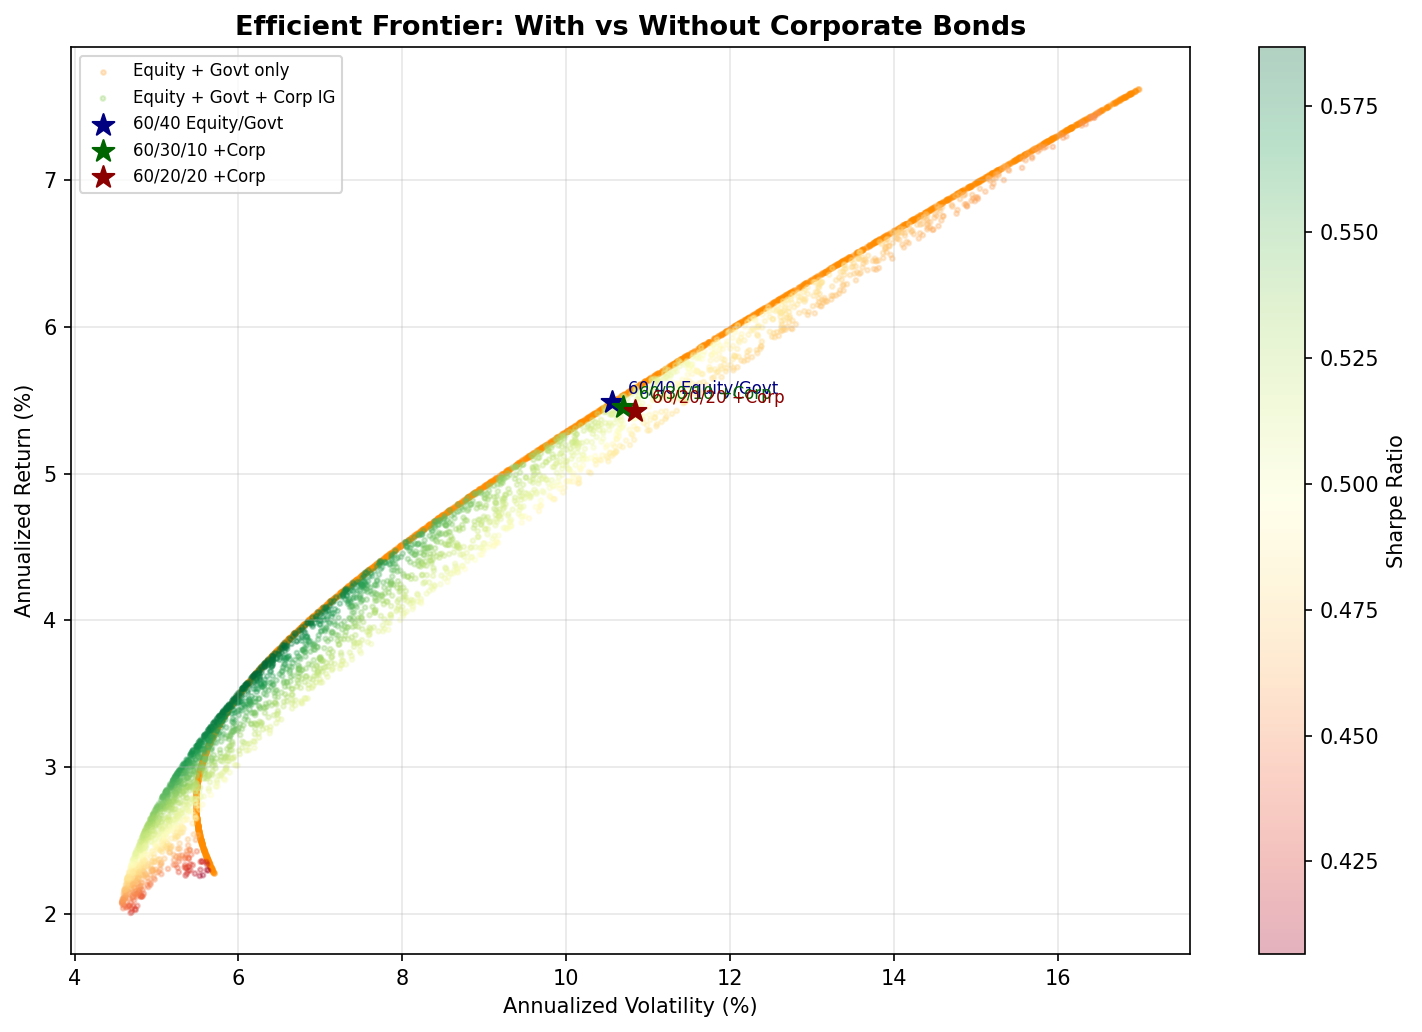
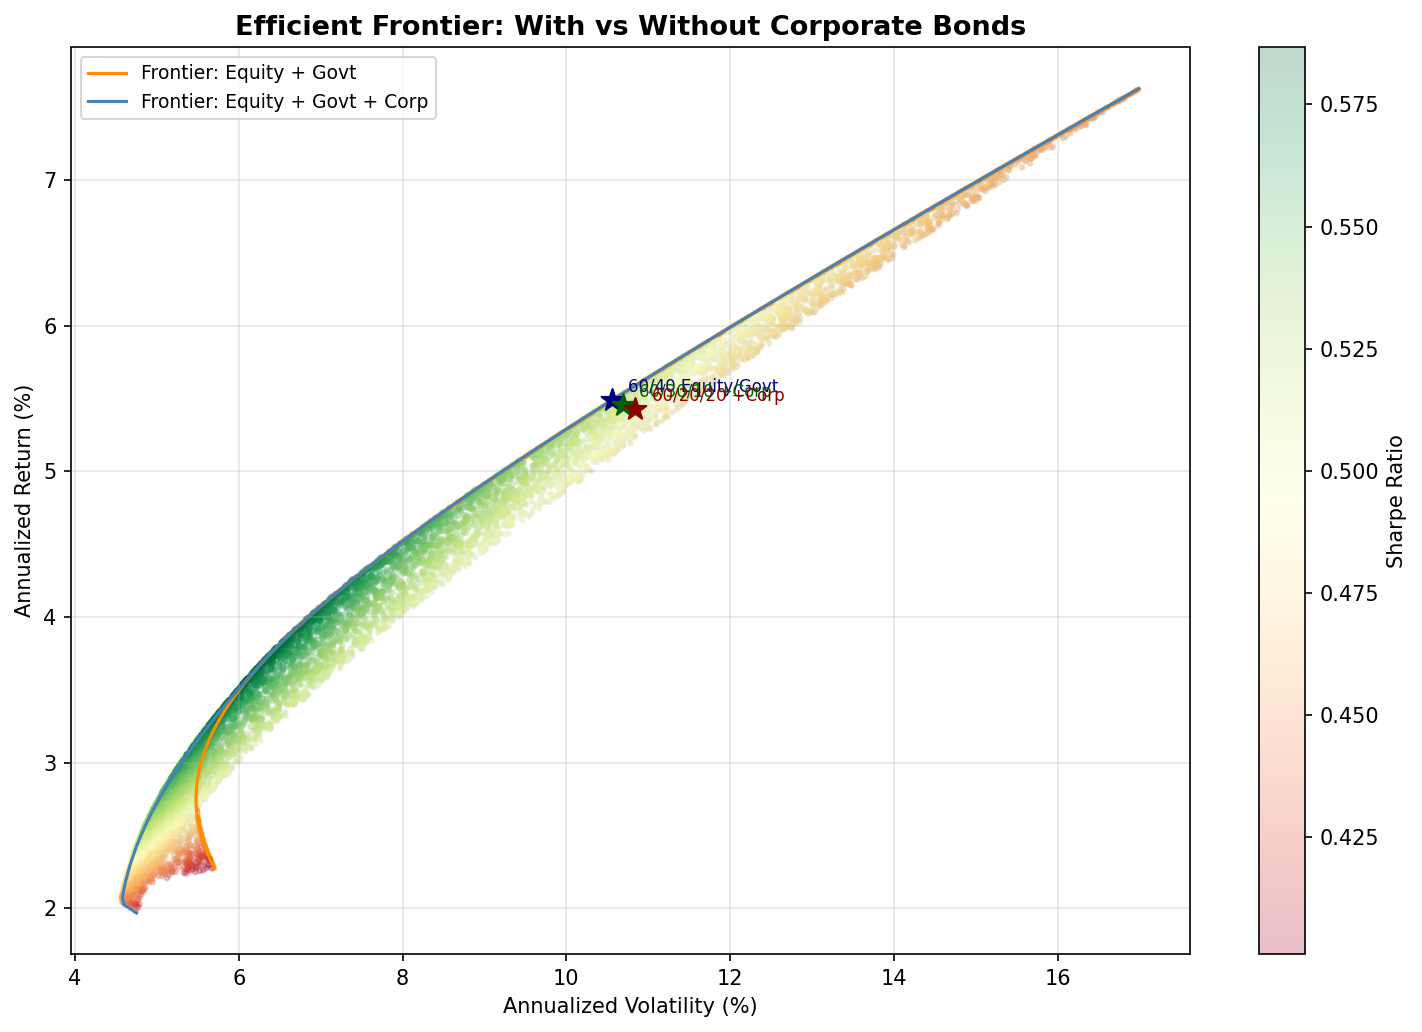
updated montecarlo result visual and added cal calculation and exact frontier lines

diff --git a/src/Q5_equity_bond_portfolio.py b/src/Q5_equity_bond_portfolio.py
@@ -1,34 +1,5 @@
-#DOSENT WORKKK!
 
-
-#1. Do corporate bonds add value to a bond portfolio? — pure fixed income context
-#2. Do corporate bonds add value to a diversified bond+equity portfolio? — broader context
-#3. What is the systematic risk in corporate bonds? — factor decomposition
-
-
-# src/Q5_equity_bond_portfolio.py
-# ─────────────────────────────────────────────────────────────
-# Q5: Do corporate bonds add value to a bond or diversified portfolio?
-#     What is the systematic risk in corporate bonds?
-#
-# INPUTS:  data/processed/etf_returns.parquet   (govt, corp log returns)
-#          data/processed/msci_europe.parquet    (equity log returns)
-#
-# OUTPUTS: Q5_bond_portfolio_cumulative.png      — Part 1: bond-only portfolios
-#          Q5_diversified_cumulative.png          — Part 2: bond+equity portfolios
-#          Q5_correlation_heatmap.png             — asset correlation matrix
-#          Q5_efficient_frontier.png              — frontier with/without corp
-#          Q5_summary_table.png                   — stats for all portfolios
-#          Q5_systematic_risk_regression.png      — factor regression table
-#          Q5_rolling_equity_beta.png             — rolling beta to equity
-#          Q5_drawdown_all.png                    — drawdown all portfolios
-#
-# NOTE ON DATA:
-#   Equity = MSCI World from data/processed/msci_world.parquet (2000-2025)
-#   Bonds  = ETF data from etf_returns.parquet (from ~2003)
-#   Common sample starts at the latest first-valid date across all series.
-# ─────────────────────────────────────────────────────────────
-
+from scipy.optimize import minimize
 import pandas as pd
 import numpy as np
 import matplotlib.pyplot as plt
@@ -37,6 +8,7 @@ import seaborn as sns
 import statsmodels.api as sm
 from src.config import SUBPERIODS, COLORS
 from src.data_loader import load_etf_returns, load_msci_europe
+from scipy.signal import savgol_filter
 
 
 # ══════════════════════════════════════════════════════════════
@@ -259,7 +231,7 @@ def compute_rolling_equity_beta(returns: pd.DataFrame,
 
 def compute_frontier_points(returns: pd.DataFrame,
                              include_corp: bool = True,
-                             n_portfolios: int = 3000) -> tuple:
+                             n_portfolios: int = 7000) -> tuple:
     """
     Monte Carlo simulation of random portfolio weights to approximate
     the efficient frontier.
@@ -384,56 +356,157 @@ def plot_correlation_heatmap(returns: pd.DataFrame) -> plt.Figure:
     fig.tight_layout()
     return fig
 
+def extract_frontier(vols: np.ndarray, rets: np.ndarray) -> tuple:
+    """
+    Extract efficient frontier (upper envelope):
+    For each volatility level, keep the max return.
+    """
+    df = pd.DataFrame({"vol": vols, "ret": rets})
+    df = df.sort_values("vol")
+
+    # Keep only points that improve return
+    frontier = []
+    max_ret = -np.inf
+
+    for _, row in df.iterrows():
+        if row["ret"] > max_ret:
+            frontier.append(row)
+            max_ret = row["ret"]
+
+    frontier = pd.DataFrame(frontier)
+    return frontier["vol"].values, frontier["ret"].values
+
+from scipy.optimize import minimize
+
+def compute_exact_frontier(returns, include_corp=True, n_points=100):
+
+    if include_corp:
+        assets = ["equity", "govt_mid", "corp_ig"]
+    else:
+        assets = ["equity", "govt_mid"]
+
+    r = returns[assets].dropna()
+    mu = r.mean() * 12
+    Sigma = r.cov() * 12
+
+    n = len(mu)
+
+    def portfolio_vol(w):
+        return np.sqrt(w @ Sigma @ w)
+
+    def portfolio_ret(w):
+        return w @ mu
+
+    bounds = [(0, 1)] * n
+    constraints_base = [{'type': 'eq', 'fun': lambda w: np.sum(w) - 1}]
+
+    target_returns = np.linspace(mu.min(), mu.max(), n_points)
+
+    vols, rets = [], []
+
+    # ✅ initialize once
+    prev_w = np.ones(n) / n
+
+    for target in target_returns:
+
+        constraints = constraints_base + [
+            {'type': 'eq', 'fun': lambda w, target=target: portfolio_ret(w) - target}
+        ]
+
+        res = minimize(
+            portfolio_vol,
+            prev_w,  # ✅ warm start
+            bounds=bounds,
+            constraints=constraints
+        )
+
+        if res.success:
+            w_opt = res.x
+
+            vols.append(portfolio_vol(w_opt) * 100)
+            rets.append(portfolio_ret(w_opt) * 100)
+
+            # ✅ update for next iteration
+            prev_w = w_opt
+
+        else:
+            # fallback (optional but robust)
+            prev_w = np.ones(n) / n
+
+    return np.array(vols), np.array(rets)
+
 
 def plot_efficient_frontier(returns: pd.DataFrame) -> plt.Figure:
-    """
-    Exhibit 4: Efficient frontier — with vs without corporate bonds.
-    If the frontier shifts outward (higher return per unit of risk) when
-    corp is added, corporate bonds genuinely add diversification value.
-
-    Monte Carlo: 3000 random weight combinations per universe.
-    Color = Sharpe ratio (return/vol) of each random portfolio.
-    """
     fig, ax = plt.subplots(figsize=(10, 7))
 
-    # Without corp
+    # ── Monte Carlo clouds (keep for intuition) ──
     vols_no, rets_no = compute_frontier_points(returns, include_corp=False)
-    ax.scatter(vols_no, rets_no, c="darkorange", alpha=0.2, s=5,
-               label="Equity + Govt only")
-
-    # With corp
     vols_yes, rets_yes = compute_frontier_points(returns, include_corp=True)
+
+    ax.scatter(vols_no, rets_no, color="darkorange", alpha=0.05, s=3)
+    ax.scatter(vols_yes, rets_yes, color="steelblue", alpha=0.08, s=4)
+
+    # ── EXACT FRONTIERS (this is the upgrade) ──
+    fvols_no, frets_no = compute_exact_frontier(returns, include_corp=False)
+    fvols_yes, frets_yes = compute_exact_frontier(returns, include_corp=True)
+
+    #smooth
+    frets_yes = savgol_filter(frets_yes, 11, 3)
+
+    # 2-asset frontier
+    ax.plot(
+        fvols_no,
+        frets_no,
+        color="darkorange",
+        linewidth=1.5,
+        label="Frontier: Equity + Govt"
+    )
+
+    # 3-asset frontier
+    ax.plot(
+        fvols_yes,
+        frets_yes,
+        color="steelblue",
+        linewidth=1.5,
+        label="Frontier: Equity + Govt + Corp"
+    )
+
+    # ── Sharpe coloring ONLY for 3-asset cloud ──
     sharpe_yes = rets_yes / vols_yes
     sc = ax.scatter(vols_yes, rets_yes, c=sharpe_yes, cmap="RdYlGn",
-                    alpha=0.3, s=5, label="Equity + Govt + Corp IG")
+                    alpha=0.25, s=6)
 
     plt.colorbar(sc, ax=ax, label="Sharpe Ratio")
 
-    # Mark specific portfolios
+    # ── Specific portfolios ──
     specific = {
         "60/40 Equity/Govt": {"equity": 0.6, "govt_mid": 0.4},
         "60/30/10 +Corp":    {"equity": 0.6, "govt_mid": 0.3, "corp_ig": 0.1},
         "60/20/20 +Corp":    {"equity": 0.6, "govt_mid": 0.2, "corp_ig": 0.2},
     }
+
     marker_colors = ["navy", "darkgreen", "darkred"]
+
     for (name, weights), mc in zip(specific.items(), marker_colors):
-        r     = build_portfolio_returns(returns, weights)
+        r = build_portfolio_returns(returns, weights)
         p_ret = r.mean() * 12 * 100
         p_vol = r.std()  * np.sqrt(12) * 100
-        ax.scatter(p_vol, p_ret, color=mc, s=120, zorder=5,
-                   marker="*", label=name)
-        ax.annotate(name, (p_vol, p_ret), textcoords="offset points",
-                    xytext=(8, 4), fontsize=8, color=mc)
 
+        ax.scatter(p_vol, p_ret, color=mc, s=120, zorder=5, marker="*")
+        ax.annotate(name, (p_vol, p_ret),
+                    textcoords="offset points", xytext=(8, 4),
+                    fontsize=8, color=mc)
+
+    # ── Styling ──
     ax.set_title("Efficient Frontier: With vs Without Corporate Bonds",
                  fontsize=13, fontweight="bold")
     ax.set_xlabel("Annualized Volatility (%)")
     ax.set_ylabel("Annualized Return (%)")
-    ax.legend(fontsize=8, loc="upper left")
+    ax.legend(fontsize=9, loc="upper left")
     ax.grid(alpha=0.3)
+
     fig.tight_layout()
     return fig
-
 
 def plot_summary_table(bond_stats: pd.DataFrame,
                         mixed_stats: pd.DataFrame) -> plt.Figure:
@@ -621,6 +694,74 @@ def plot_drawdown_all(bond_ports: pd.DataFrame,
     fig.tight_layout()
     return fig
 
+def plot_frontiers_and_cals(returns: pd.DataFrame, rf: float = 0.0) -> plt.Figure:
+    fig, ax = plt.subplots(figsize=(10, 7))
+
+    # ── FRONTIERS ──
+    fvols_no, frets_no = compute_exact_frontier(returns, include_corp=False)
+    fvols_yes, frets_yes = compute_exact_frontier(returns, include_corp=True)
+
+    ax.plot(fvols_no, frets_no,
+            color="darkorange", linewidth=2,
+            label="Frontier: Equity + Govt")
+
+    ax.plot(fvols_yes, frets_yes,
+            color="steelblue", linewidth=2,
+            label="Frontier: Equity + Govt + Corp")
+
+    # ── TANGENCY PORTFOLIOS ──
+    def compute_tangent(returns, include_corp):
+        if include_corp:
+            assets = ["equity", "govt_mid", "corp_ig"]
+        else:
+            assets = ["equity", "govt_mid"]
+
+        r = returns[assets].dropna()
+        mu = r.mean() * 12
+        Sigma = r.cov() * 12
+
+        excess = mu - rf
+        w = np.linalg.inv(Sigma) @ excess
+        w /= np.sum(w)
+
+        ret = w @ mu
+        vol = np.sqrt(w @ Sigma @ w)
+
+        return ret * 100, vol * 100
+
+    ret_no, vol_no = compute_tangent(returns, include_corp=False)
+    ret_yes, vol_yes = compute_tangent(returns, include_corp=True)
+
+    # ── CAL LINES ──
+    x = np.linspace(0, max(fvols_yes) * 1.2, 200)
+
+    ax.plot(x, (ret_no / vol_no) * x,
+            linestyle="--", color="darkorange", alpha=0.8,
+            label="CAL (no corp)")
+
+    ax.plot(
+        x, (ret_yes / vol_yes) * x,
+        linestyle=(3, (6, 4)),  # 👈 shifted phase
+        color="steelblue",
+        alpha=0.8,
+        label="CAL (with corp)"
+    )
+
+    # ── MARK TANGENCY POINTS (optional but clean) ──
+    ax.scatter(vol_no, ret_no, color="darkorange", s=80, zorder=5)
+    ax.scatter(vol_yes, ret_yes, color="steelblue", s=80, zorder=5)
+
+    # ── STYLING ──
+    ax.set_title("Efficient Frontier & Capital Allocation Lines",
+                 fontsize=13, fontweight="bold")
+    ax.set_xlabel("Annualized Volatility (%)")
+    ax.set_ylabel("Annualized Return (%)")
+    ax.legend(fontsize=10)
+    ax.grid(alpha=0.3)
+
+    fig.tight_layout()
+    return fig
+
 
 # ══════════════════════════════════════════════════════════════
 # 7. RUN ALL
@@ -664,4 +805,5 @@ def run_all() -> dict:
         "Q5_rolling_equity_beta.png":       plot_rolling_equity_beta(returns),
         "Q5_drawdown_all.png":              plot_drawdown_all(bond_port_returns,
                                                               mixed_port_returns),
+        "Q5_frontier_cals.png": plot_frontiers_and_cals(returns),
     }

diff --git a/main.py b/main.py
@@ -134,10 +134,10 @@ def run_module(label: str, module):
     except Exception as e:
         print(f"  ✗ failed — {e}\n")
 
-run_module("Q1: Yield Curve Dynamics",          q1)
-run_module("Q2: Forward Rates",                 q2)
-run_module("Q3: Duration Risk",                 q3)
-run_module("Q4: Credit Markets",                q4)
+#run_module("Q1: Yield Curve Dynamics",          q1)
+#run_module("Q2: Forward Rates",                 q2)
+#run_module("Q3: Duration Risk",                 q3)
+#run_module("Q4: Credit Markets",                q4)
 run_module("Q5: Portfolio & Systematic Risk",   q5)
 
 print("\n── Saving numerical summary tables ──")
